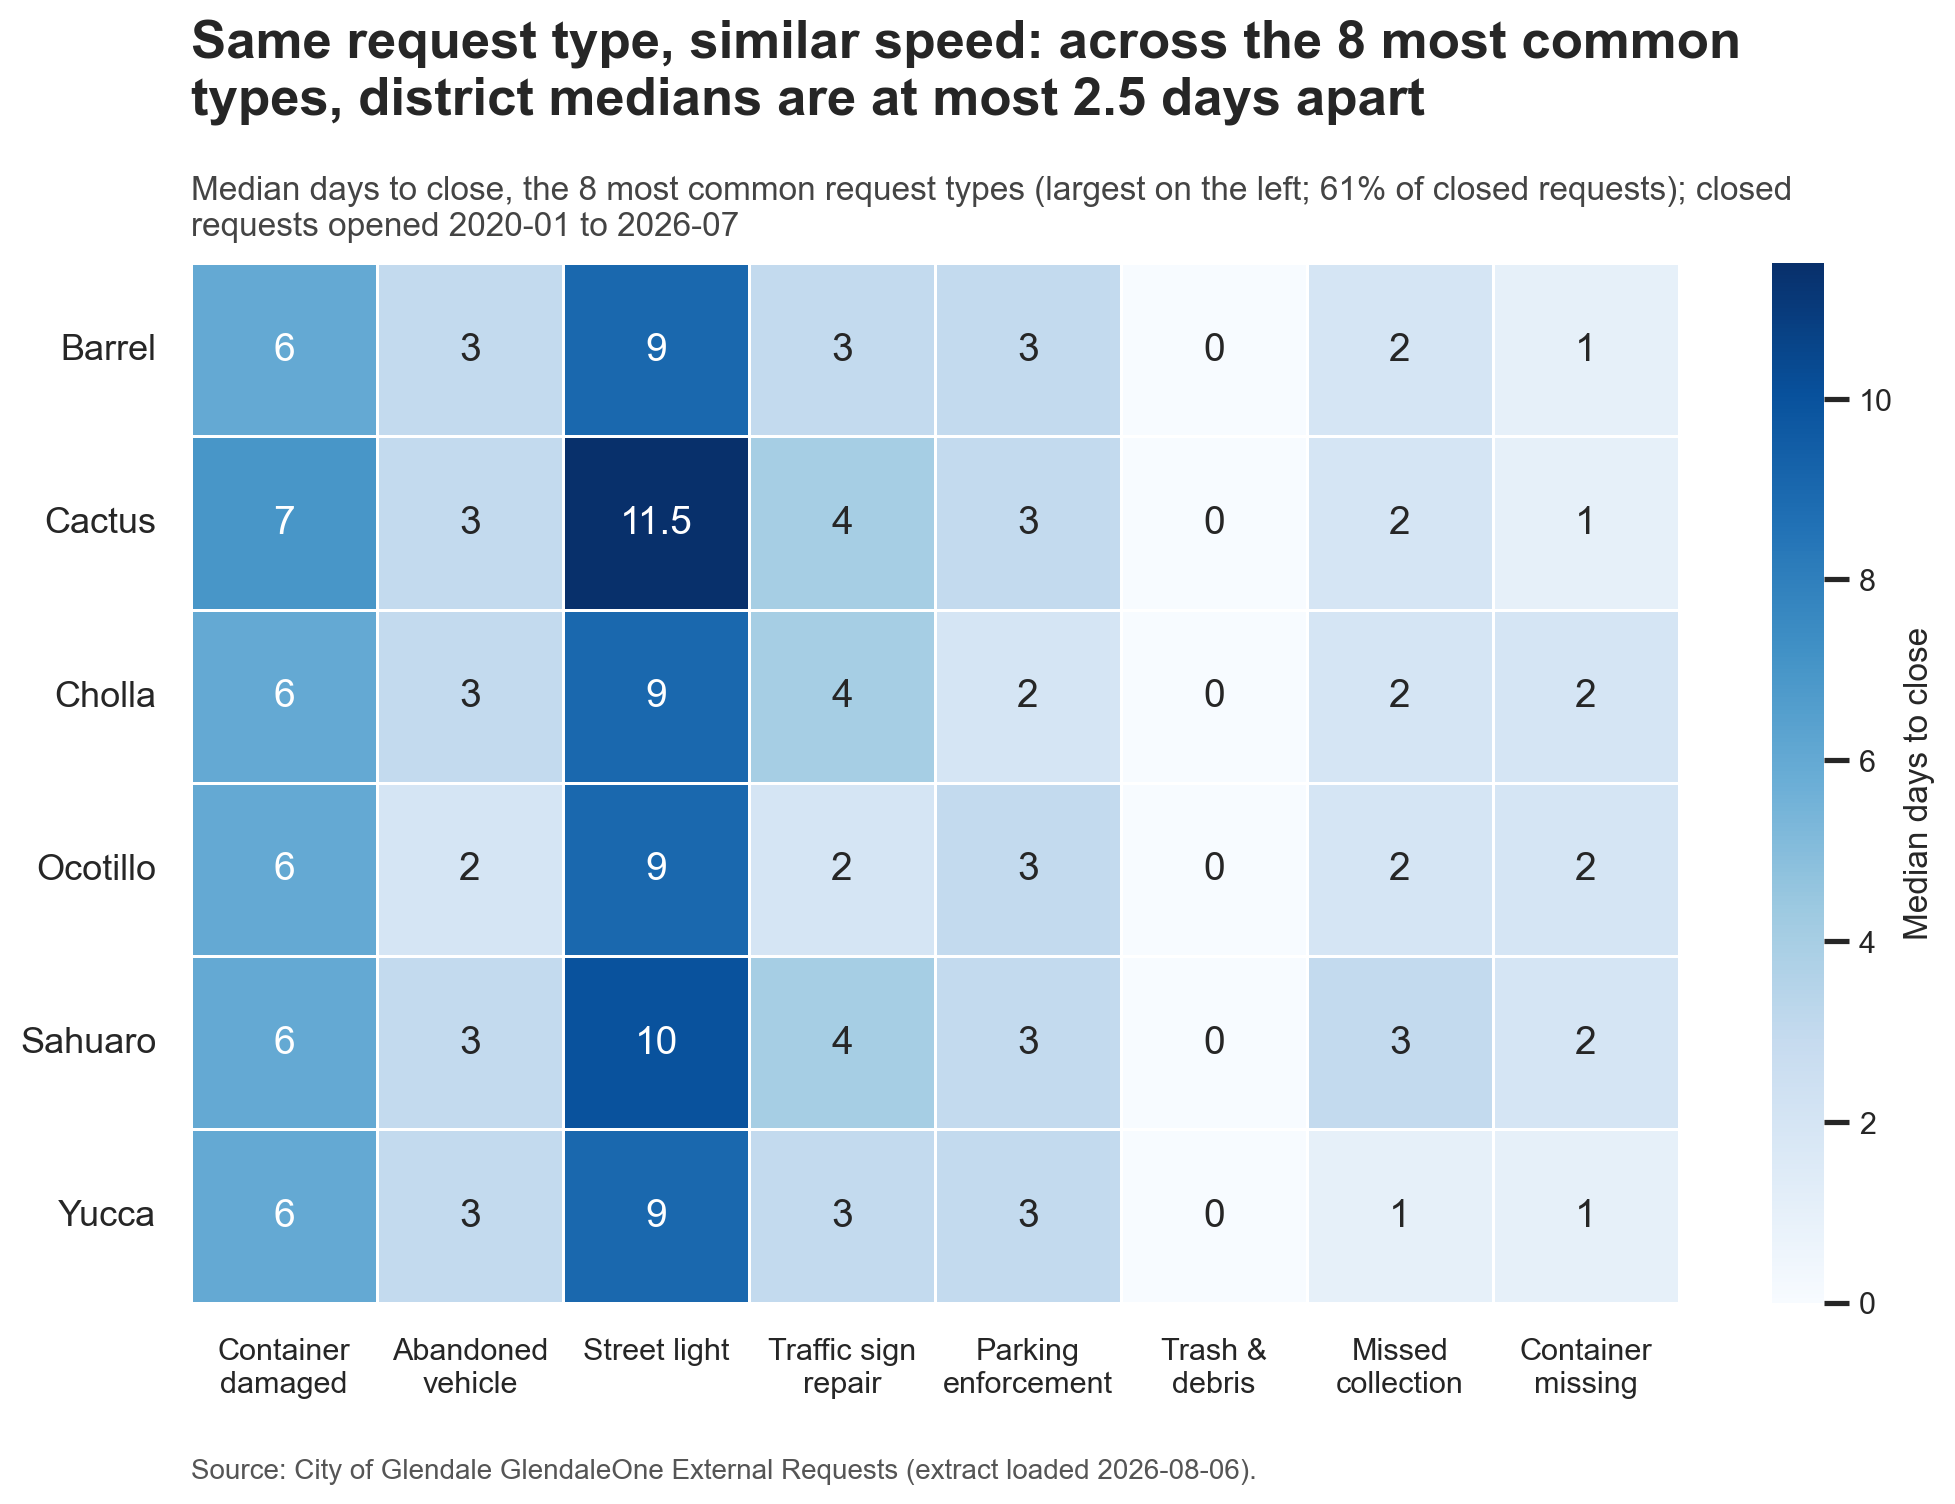
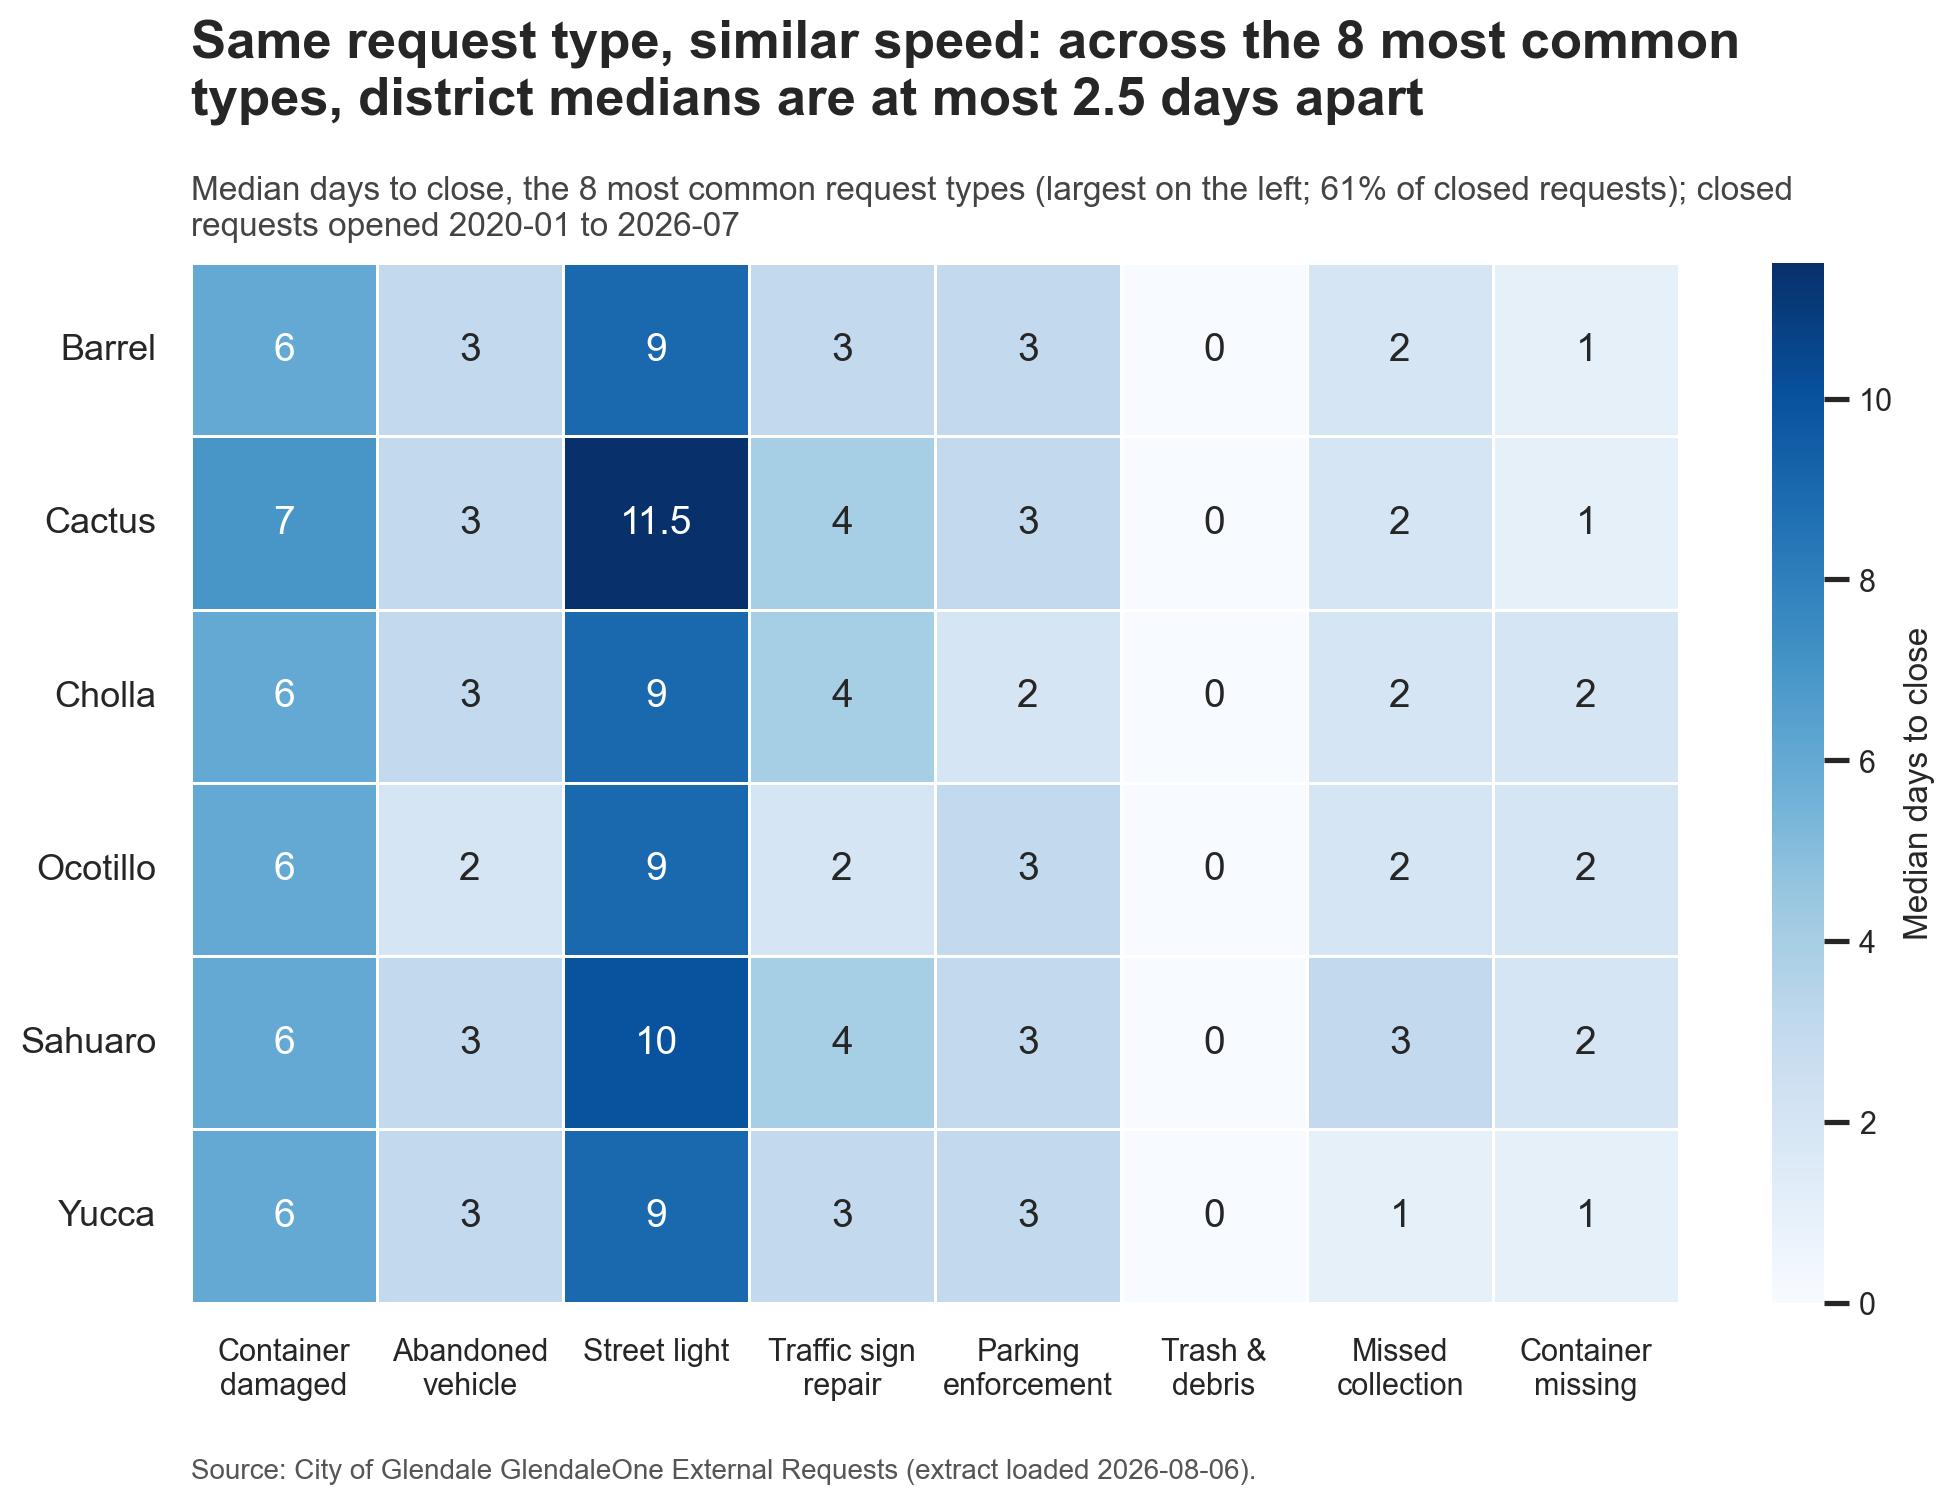
chore: finish iter2 time-to-close for merge
Remove explanatory code comments from the notebook (the verbatim load and
chart-standard blocks keep theirs), reword two sentences so nothing reads as
scored against the City's targets, rerun the notebook end to end (CSVs
unchanged) and clear outputs. Mark F-01 merged, drop "pending review" from
the Direction, log the exact-type control in DECISIONS and add the
Iteration 2 status column to docs/tasks/README.md.

Generated with AI

diff --git a/docs/tasks/README.md b/docs/tasks/README.md
@@ -4,12 +4,14 @@ One file per person per iteration: your tasks, when each is due, and what Ma'el 
 
 ## Iteration 2 – present in class Mon 2026-10-19
 
-| Person | File | Pieces | Final due |
-|---|---|---|---|
-| Shamie | [iter2-shamie.md](iter2-shamie.md) | Reporting-propensity gap | Sun 2026-10-11 (hard) |
-| Shenoy | [iter2-shenoy.md](iter2-shenoy.md) | Time-to-close by district | Sun 2026-10-11 (hard) |
-| Akshara | [iter2-akshara.md](iter2-akshara.md) | Monthly trend chart · storyline and copy · chart review and run sheet | Wed 2026-10-14 (copy, hard) · Fri 2026-10-16 (run sheet) |
-| Ma'el | [iter2-mael.md](iter2-mael.md) | Spatial join · reviews · synthesis · integration · HTML build | Fri 2026-10-16 (freeze) |
+| Person | File | Pieces | Final due | Status (2026-10-18) |
+|---|---|---|---|---|
+| Shamie | [iter2-shamie.md](iter2-shamie.md) | Reporting-propensity gap | Sun 2026-10-11 (hard) | Red: analysis done, but no PR by the due date or within the 24 h grace. Remaining repo work reassigned to Ma'el, in progress on `feature/iter2-propensity` |
+| Shenoy | [iter2-shenoy.md](iter2-shenoy.md) | Time-to-close by district | Sun 2026-10-11 (hard) | Done: PR #3 merged 2026-10-18 (F-01) |
+| Akshara | [iter2-akshara.md](iter2-akshara.md) | Monthly trend chart · storyline and copy · chart review and run sheet | Wed 2026-10-14 (copy, hard) · Fri 2026-10-16 (run sheet) | Red: trend numbers and page done, but no PR, notebook, storyline, copy or run sheet within the grace window. Remaining work reassigned to Ma'el, in progress on `feature/iter2-trend` |
+| Ma'el | [iter2-mael.md](iter2-mael.md) | Spatial join · reviews · synthesis · integration · HTML build | Fri 2026-10-16 (freeze) | In progress: reviews, merges and integration tonight. The spatial join and the synthesis note are not in the repo yet |
+
+**Reassignment (missed-deadline protocol, 24 h grace then reassign).** Shamie's and Akshara's remaining Iteration 2 work was reassigned to Ma'el, who is finishing it on 2026-10-18 from their handoffs. The work they did stays credited to them. The retro records this as a process issue, not a verdict on anyone.
 
 ## Team dates (everyone)
 

diff --git a/docs/FINDINGS.md b/docs/FINDINGS.md
@@ -9,8 +9,8 @@ One finding so far (F-01). PROJECT.md section 7 figures are orientation only.
 ### F-01 – About 78% of the raw district gap in time-to-close lines up with request-type mix
 - Finding: the share of closed requests slower than the citywide median runs from 40.5% (Ocotillo) to 55.0% (Cholla), a 14.5-point gap; against the typical time for each request's exact type, the range is 41.0% (Ocotillo) to 44.2% (Cactus), a 3.2-point gap (Cramér's V 0.093 raw vs 0.023 type-corrected, both negligible). Raw district medians run from 2 days (Ocotillo) to 5 days (Cholla).
 - Evidence: outputs/iter2/time_to_close/findings.md, type_corrected_share_by_district.csv, stat_tests.csv
-- Owner: Shenoy · Merged: pending review · Window and denominator: GlendaleOne requests opened 2020-01-01 to 2026-07-31, closed only, n = 103,939 (2,343 with no district excluded)
-- Caveats: "typical" is the citywide median for the exact `request_type` (155 types), not the City's escalation targets, which are not downloaded. With the 17 type groups the gap only narrows to 12.1 points, because groups such as Trash/Recycle hide different type mixes. Closed-only timing leans fast in the latest months (91.3% of 2026-07 requests closed). 59 types have under 30 requests. Associations only.
+- Owner: Shenoy (finished by Ma'el) · Merged: 2026-10-18 · Window and denominator: GlendaleOne requests opened 2020-01-01 to 2026-07-31, closed only, n = 103,939 (2,343 with no district excluded)
+- Caveats: "typical" is the citywide median for the exact `request_type` (155 types), not the City's escalation targets, which are not downloaded. With the 17 type groups the gap only narrows to 12.1 points: groups such as Trash/Recycle hide different type mixes. Closed-only timing leans fast in the latest months (91.3% of 2026-07 requests closed). 59 types have under 30 requests. Associations only.
 - Hypothesis it bears on: H3 (supports)
 
 Add entries in this format, newest first:

diff --git a/docs/DECISIONS.md b/docs/DECISIONS.md
@@ -4,6 +4,7 @@ Dated record of decisions that shape how the team works and how numbers are comp
 
 | Date | Decision | Why / source | Status |
 |---|---|---|---|
+| 2026-10-18 | **Time-to-close type control:** each closed request is compared with the citywide median for its exact `request_type` (155 types), not its `request_type_group` (17 groups). The group-level result stays in the outputs as the comparison. This departs from the type-grouping rule in `docs/ANALYSIS_STANDARDS.md` section 3 for time-to-close only; the standard itself is not edited yet. | The 17 groups hide different type mixes: Residential - Container Damaged is 79% of Cholla's Trash/Recycle requests vs 46% of Ocotillo's, and with groups the district gap only narrows from 14.5 to 12.1 points. The task file asks for "the median for their own request type". Evidence: F-01, `outputs/iter2/time_to_close/findings.md` | Active |
 | 2026-09-28 | The repo `glendale-311-equity` is the team's working space: docs, tasks, code, outputs, a `CHANGELOG.md` line on every PR, and CI checks on `main`. | Every change gets notated and reviewed | Active |
 | 2026-09-25 | **Iteration 2** is an in-class presentation on **Mon 2026-10-19**. Scope: the reporting-propensity gap and time-to-close by district. District request signatures and the Code Compliance comparison wait for the final iteration. | Ma'el | Active |
 | 2026-09-25 | Iteration 2 measures time-to-close **controlled for request type** rather than against the City's response targets, because the targets table (GlendaleOne Escalations) is not downloaded. The talk says so. Never write "on target" or "late". | Ma'el; PROJECT.md 6.12 | Active |

diff --git a/outputs/iter2/time_to_close/findings.md b/outputs/iter2/time_to_close/findings.md
@@ -4,7 +4,7 @@ Owner: Shenoy · Reviewer: Ma'el · Notebook: `notebooks/iter2_time_to_close_she
 
 **Source and freshness:** `data/cleaned/glendaleone_clean.csv` (GlendaleOne External Requests, extract loaded 2026-08-06, team Drive copy). Window: requests opened 2020-01-01 to 2026-07-31. Grain: one row = one closed request. No population denominator is used here.
 
-**Measure:** `days_to_close = close_date - request_date` in whole days (dates are date-only UTC, so a same-day close is 0). A request is *slower than typical for its type* when it took longer than the citywide median for its exact `request_type`, computed on this analysis set. That is not the City's target: the escalation targets are not downloaded, so nothing here is "late" or "on target".
+**Measure:** `days_to_close = close_date - request_date` in whole days (dates are date-only UTC, so a same-day close is 0). A request is *slower than typical for its type* when it took longer than the citywide median for its exact `request_type`, computed on this analysis set. That is not the City's target: the escalation targets are not downloaded, so nothing here is scored against them.
 
 **Change from the plan:** the type control was planned as the 17 `request_type_group` values (ANALYSIS_STANDARDS section 3) and changed after the first run to the 155 exact `request_type` values, which match the task file's wording ("the median for their own request type"). The groups hide large timing differences inside them (finding 3). The group-level result is reported alongside in `type_corrected_share_by_district.csv`, `median_days_by_district_and_type_group.csv` and `stat_tests.csv`.
 

diff --git a/CHANGELOG.md b/CHANGELOG.md
@@ -14,8 +14,7 @@ Use the iteration in the brackets; use `[setup]` for repo or tooling work that b
 
 ## Iteration 2
 
-- 2026-10-18 (Shenoy) [iter2] Added the time-to-close analysis by district, its outputs and F-01, and proposed the H3 Direction edit (notebooks/iter2_time_to_close_shenoy.ipynb, outputs/iter2/time_to_close/, docs/FINDINGS.md, CLAUDE.md) – tests whether district gaps in days-to-close hold once request type is controlled
-
+- 2026-10-18 (Shenoy; finished by Ma'el) [iter2] Added the time-to-close analysis by district, its outputs, F-01 and the H3 Direction edit, logged the exact-type control, added the Iteration 2 status column and removed explanatory code comments (notebooks/iter2_time_to_close_shenoy.ipynb, outputs/iter2/time_to_close/, docs/FINDINGS.md, CLAUDE.md, docs/DECISIONS.md, docs/tasks/README.md) – tests whether district gaps in days-to-close hold once request type is controlled
 - 2026-09-29 (Ma'el) [setup] Replaced the five long task cards with one short task file per person (docs/tasks/) and trimmed the roadmap, PR template and skills to match – a group project needs tasks, due dates and what's expected, not a manual
 - 2026-09-28 (Ma'el) [setup] Smoke-tested both CI checks with a throwaway notebook (notebooks/ci_smoke.ipynb) – prove the checks fail and pass before main is protected
 - 2026-09-28 (Ma'el) [setup] Published the repo as private glendale-311-equity on GitHub with main pushed (origin) – the team works from one shared remote

diff --git a/CLAUDE.md b/CLAUDE.md
@@ -22,7 +22,7 @@ CIS 450 capstone (ASU, Fall 2026) for the City of Glendale, Arizona. We analyse 
   - H1 `[unvalidated]` Request volume per resident may line up with who reports (income, internet, language, rent burden) more than with need.
   - H2 `[unvalidated]` The equity signal may sit in the mix of request types, not the volume.
   - H3 `[supported]` District gaps in days-to-close shrink once request type is controlled (F-01: 14.5 to 3.2 points).
-- **Validated findings:** F-01 (time-to-close, pending review). `docs/PROJECT.md` section 7 figures are orientation only.
+- **Validated findings:** F-01 (about 78% of the raw district gap in time-to-close lines up with request-type mix). `docs/PROJECT.md` section 7 figures are orientation only.
 
 ## Read first, in this order
 
